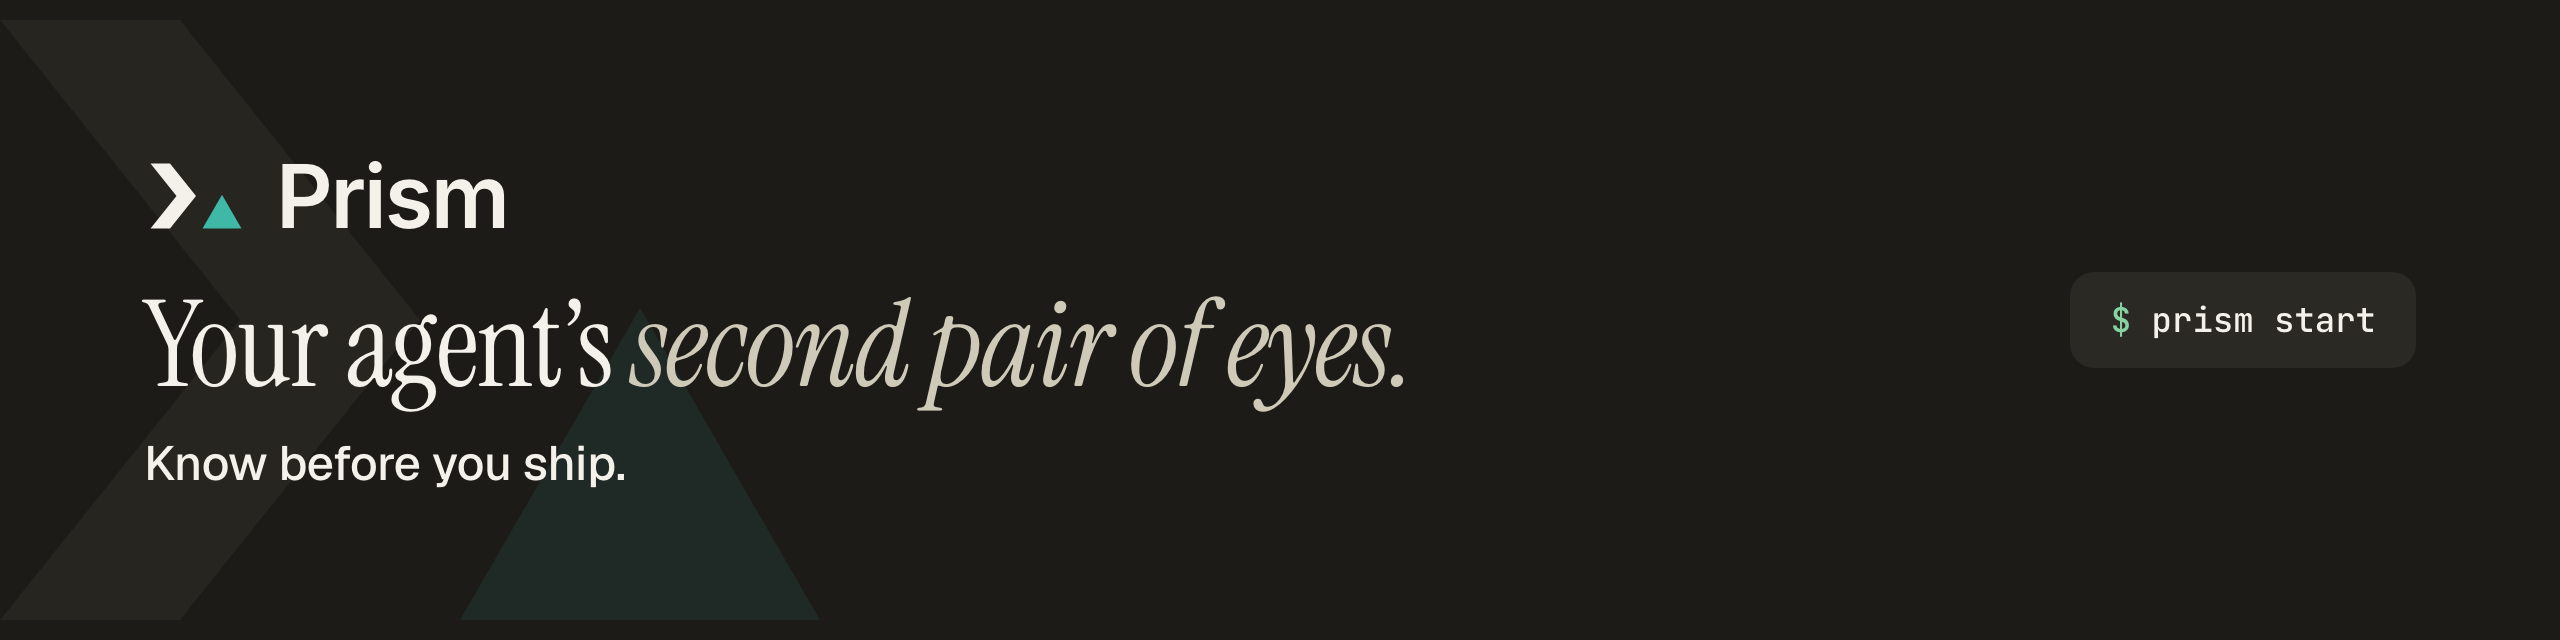
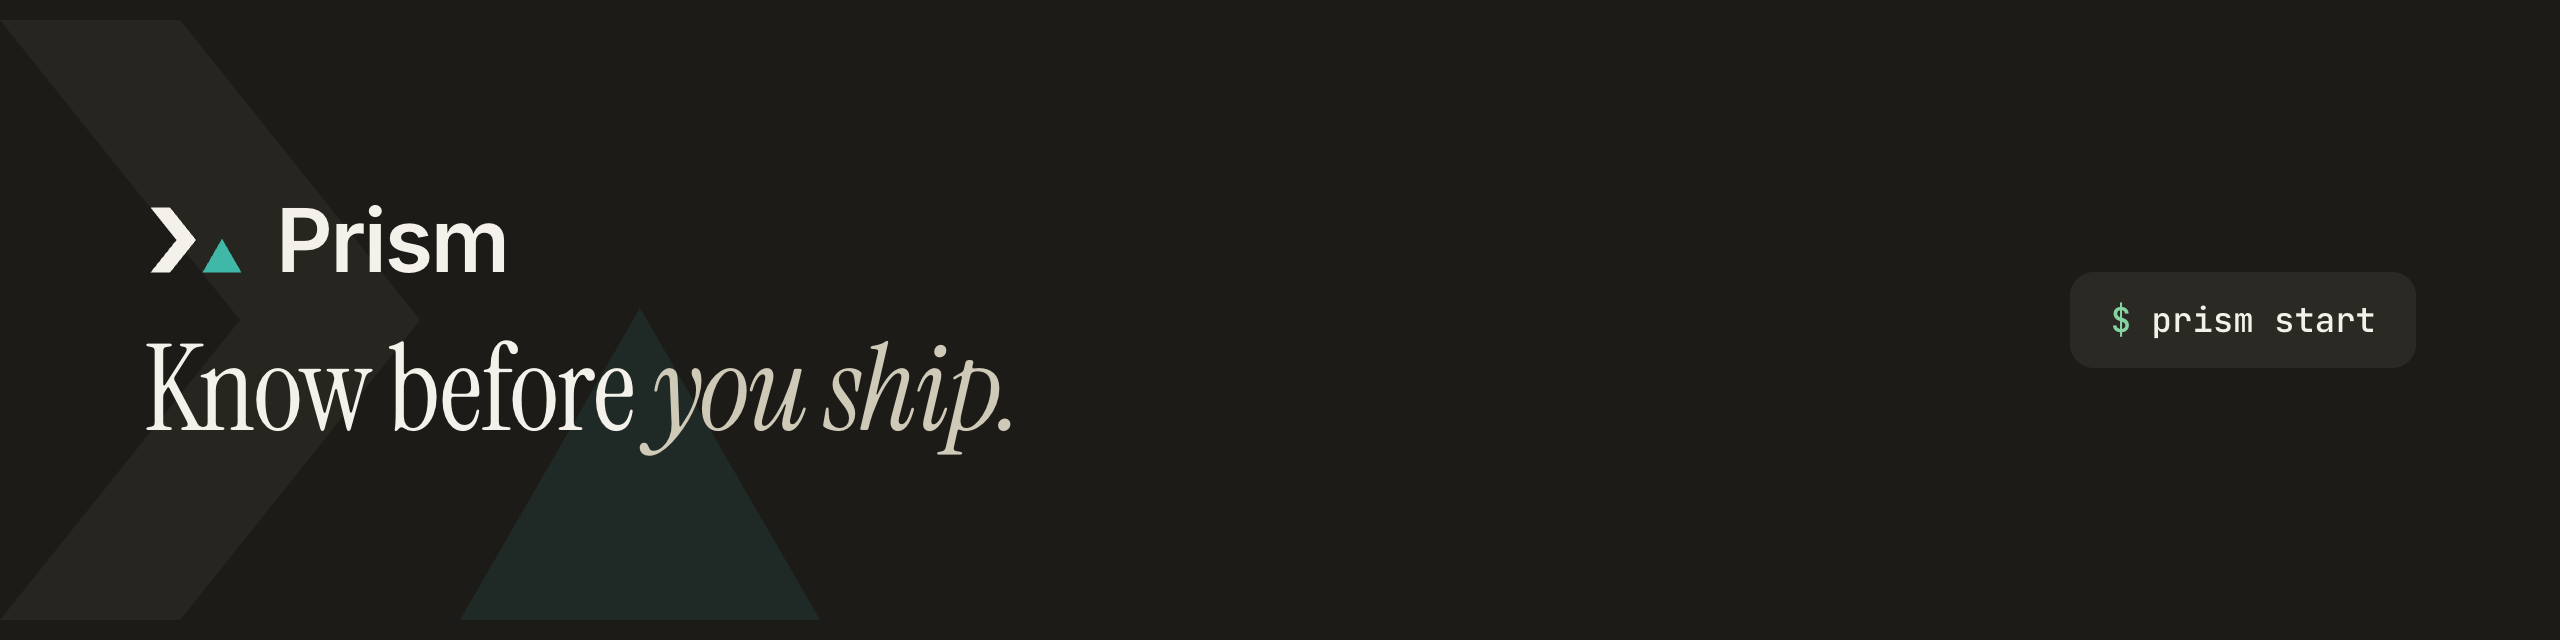
docs, README: claim-free copy, Cursor receipts, no hook auto-update claim

Changed region(s): [[0.0312, 0.4688, 0.5625, 0.75], [0.0625, 0.25, 0.2188, 0.4375], [0.4688, 0.625, 0.5, 0.6562]]

diff --git a/README.md b/README.md
@@ -2,7 +2,7 @@
   <picture>
     <source media="(prefers-color-scheme: dark)" srcset="./assets/readme-hero-dark-1280x320.png">
     <source media="(prefers-color-scheme: light)" srcset="./assets/readme-hero-light-1280x320.png">
-    <img alt="Prism: your agent’s second pair of eyes. Know before you ship." src="./assets/readme-hero-light-1280x320.png" width="100%">
+    <img alt="Prism: know before you ship." src="./assets/readme-hero-light-1280x320.png" width="100%">
   </picture>
 </p>
 
@@ -12,12 +12,12 @@
 [![npm @repo-prism/cli](https://img.shields.io/npm/v/@repo-prism/cli.svg?label=@repo-prism/cli)](https://www.npmjs.com/package/@repo-prism/cli)
 [![License: MIT](https://img.shields.io/github/license/Shailesh200/prism)](./LICENSE)
 
-**Your agent's second pair of eyes.** Know before you ship.
+**Know before you ship.**
 
-Local software intelligence that catches what the agent missed. Prism gives
-your coding agent the right files before it edits, then flags the code it
-skipped and the code no test covers. Free, MIT, and it runs on your machine:
-no account, and your code never leaves it.
+When Claude Code stops, Prism runs your checks on what changed and gives one
+verdict: SHIP, NOT PROVEN or NO-SHIP. It also works with Cursor, Codex and
+opencode. Free, MIT, and it runs on your machine: no account, and your code
+never leaves it.
 
 **Website:** [prismhq.in](https://www.prismhq.in) · **Docs:** [prismhq.in/docs](https://www.prismhq.in/docs)
 
@@ -49,8 +49,8 @@ Then ask your agent in plain language, for example "what breaks if I change
 
 - **Prepare, before the agent edits.** The files and tests that matter for
   the task, the helpers to reuse instead of rewriting, and your house style.
-- **Lens review, after.** Dev, Architect and QA lenses flag the callers the
-  change left behind and the code no test covers. Add your own with `prism lens`.
+- **Review, after.** Prism ranks the changes by risk, and the Dev, Architect
+  and QA lenses add their checks. Add your own with `prism lens`.
 - **The receipt, when the agent stops.** Prism runs the checks the change
   reaches and gives one verdict: `SHIP`, `NOT PROVEN` (with the cheapest check
   to prove it) or `NO-SHIP`.

diff --git a/docs/reference/mcp-tools.md b/docs/reference/mcp-tools.md
@@ -92,7 +92,7 @@ Arguments: `mode`, `name`, `kind`, `target`, `direction`, `from`, `to`, `maxHops
 
 ## `guard_session`
 
-Check my changes. Ranks this session's changes (working-tree changes minus what was already changed when the session began, or minus preExistingChanges; only `paths` when given) by blast risk so the highest-risk file is read first; files may carry duplicate, orphan or boundary flags, and `findings` lists each as what/where/fix/riskIfSkipped. With review:true it also returns `review`: blast radius, test impact and breaking-change hints per changed path, an overall risk band and structured lens findings (paths/base/lens/format pick what to review; format prDescription adds PR-description facts). Call before landing a session or to review a branch.
+Check my changes. Ranks this session's changes (working-tree changes minus what was already changed when the session began, or minus preExistingChanges; only `paths` when given) by blast risk so the highest-risk file is read first; files may carry duplicate, orphan or boundary flags, and `findings` lists each as what/where/fix/riskIfSkipped. With review:true it also returns `review`: blast radius, test impact and breaking-change hints per changed path, an overall risk band and the results of the lens checks (paths/base/lens/format pick what to review; format prDescription adds PR-description facts). Call before landing a session or to review a branch.
 
 Arguments: `preExistingChanges`, `review`, `paths`, `base`, `lens`, `format`.
 

diff --git a/docs/what-is-prism.md b/docs/what-is-prism.md
@@ -32,7 +32,7 @@ Prism parses source into a local index and derives views from that one store:
 
 | Surface | For |
 |---|---|
-| **MCP server and hooks** | Claude Code, Cursor, Codex and opencode: nine tools, a prompt-time pack and a stop-time receipt |
+| **MCP server and hooks** | Prism sets up Claude Code, Codex, opencode and Cursor. Claude Code gets a verdict when the agent stops. In the others, the verdict comes with the next receipt. |
 | **CLI** | Scripts, CI, terminal workflows |
 
 ## Is it for you?
